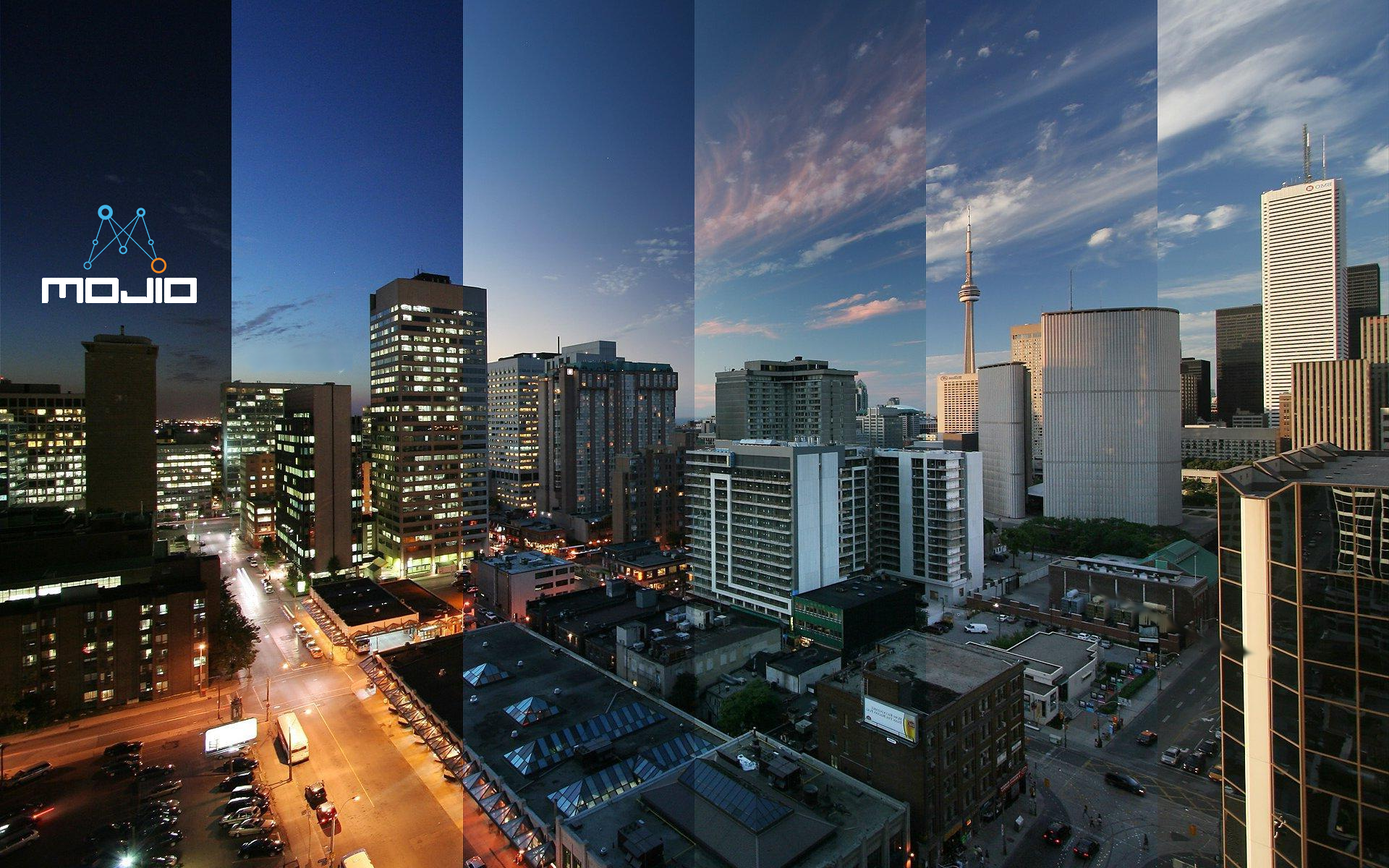
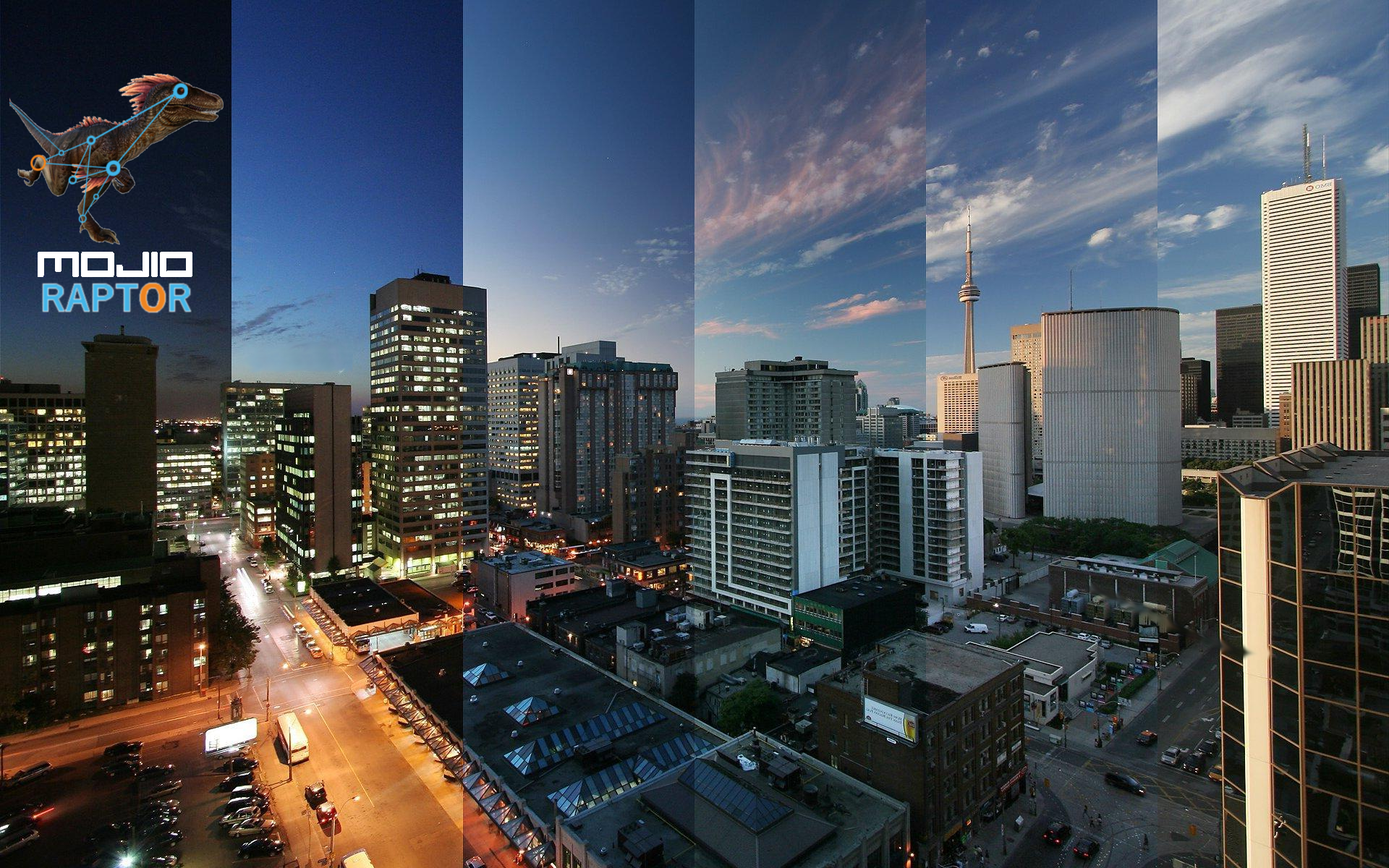
Added new background and styling

Changed region(s): [[0.0, 0.0617, 0.1562, 0.37]]

diff --git a/app/assets/stylesheets/application.scss b/app/assets/stylesheets/application.scss
@@ -27,9 +27,14 @@ body {
 .content {
   width: 100%;
 }
-
-.col-md-12 {
+.title-div {
+  font-size: 50px;
+  font-weight: 900;
+  margin-left: 20px;
   margin-top: 20px;
+}
+.col-md-12 {
+  margin-top: 100px;
 
 }
 
@@ -38,13 +43,17 @@ body {
 }
 
 .formdiv {
-  opacity: 0.85;
   background-color: #2B2D2A;
   width: 400px;
-  -webkit-box-shadow: 28px 10px 25px 7px rgba(0,0,0,0.91);
-  -moz-box-shadow: 28px 10px 25px 7px rgba(0,0,0,0.91);
-  box-shadow: 28px 10px 25px 7px rgba(0,0,0,0.91);
 
+}
+
+.formdiv, .statsfield, .datafield {
+  -webkit-box-shadow: 0px 0px 34px 17px rgba(0,0,0,0.75);
+  -moz-box-shadow: 0px 0px 34px 17px rgba(0,0,0,0.75);
+  box-shadow: 0px 0px 34px 17px rgba(0,0,0,0.75);
+  padding: 20px 0 20px 0;
+  opacity: 0.85;
 }
 
 .field{
@@ -54,9 +63,5 @@ body {
 .statsfield{
   width: 800px;
   text-align: center;
-  opacity: 0.85;
   background-color: #2B2D2A;
-  -webkit-box-shadow: 28px 10px 25px 7px rgba(0,0,0,0.91);
-  -moz-box-shadow: 28px 10px 25px 7px rgba(0,0,0,0.91);
-  box-shadow: 28px 10px 25px 7px rgba(0,0,0,0.91);
 }

diff --git a/app/assets/stylesheets/navbar.scss b/app/assets/stylesheets/navbar.scss
@@ -3,10 +3,10 @@
   height: 100px;
   background-color:  #3f51b5;
   color: white;
-  -webkit-box-shadow: 0 8px 6px -6px #999;
-  -moz-box-shadow: 0 8px 6px -6px #999;
-  box-shadow: 0 8px 6px -6px #999;
-
+  border-left: none;
+  border-right: none;
+  border-top: none;
+  border-bottom: 5px solid white;
   .nav-items {
     width: inherit;
     height: inherit;
@@ -16,7 +16,6 @@
   .title {
     color:  white;
 	text-decoration: none;
-    padding-top: 1%;
     padding-left: 5%;
     line-height: 45px;
     font-weight: bold;

diff --git a/app/assets/stylesheets/trip_matches.scss b/app/assets/stylesheets/trip_matches.scss
@@ -2,6 +2,7 @@
 // They will automatically be included in application.css.
 // You can use Sass (SCSS) here: http://sass-lang.com/
 table.matches-table {
+  margin-top: 20px;
   td, th {
     padding: 0 20px 0 20px;
   }
@@ -16,7 +17,4 @@ tr.confirmed {
 .datafield{
   opacity: 0.85;
   background-color: #2B2D2A;
-  -webkit-box-shadow: 28px 10px 25px 7px rgba(0,0,0,0.91);
-  -moz-box-shadow: 28px 10px 25px 7px rgba(0,0,0,0.91);
-  box-shadow: 28px 10px 25px 7px rgba(0,0,0,0.91);
 }

diff --git a/app/assets/stylesheets/footer.scss b/app/assets/stylesheets/footer.scss
@@ -8,10 +8,7 @@
   -webkit-box-shadow: 0 8px 6px -6px #999;
   -moz-box-shadow: 0 8px 6px -6px #999;
   box-shadow: 8px 8px 6px -6px #999;
-  border-style: solid;
-  border-width: 1%;
-  border-color: white;
-
+  border-top: 5px solid white;
 
   .navbar-link {
     color: white;
